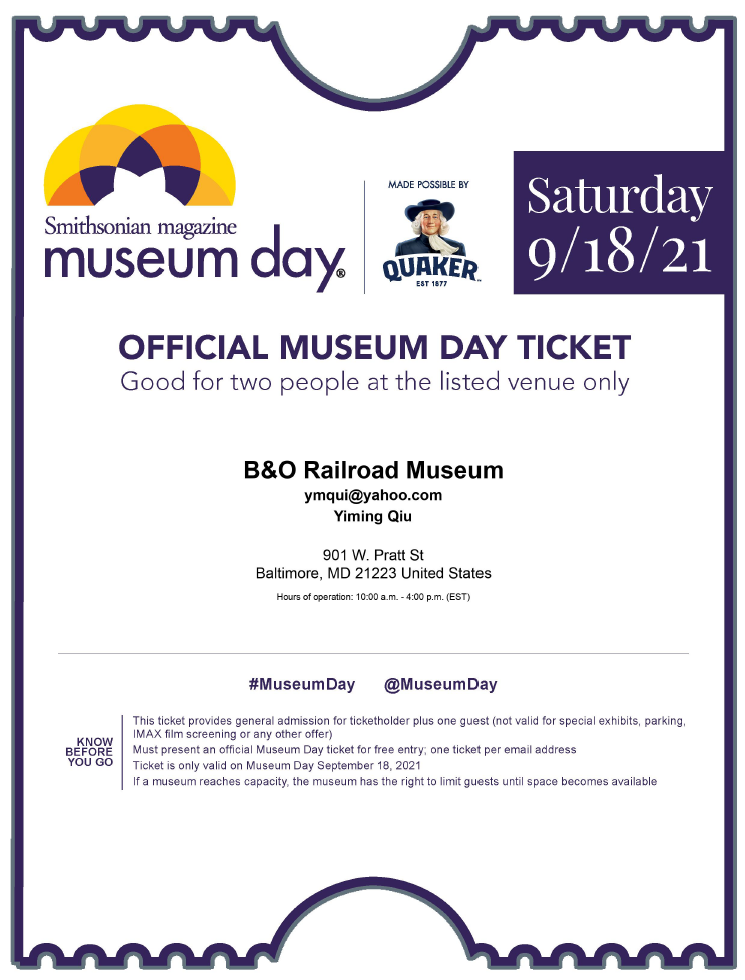
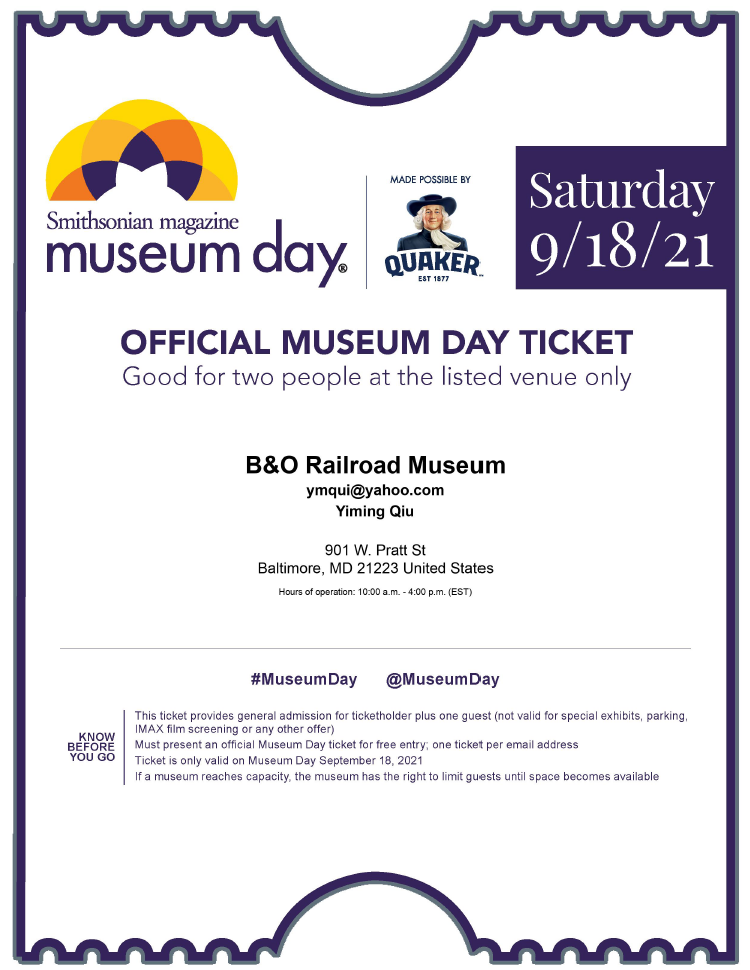
Add files via upload

diff --git a/coupon.html b/coupon.html
@@ -14,4 +14,8 @@
 <center>
 <img src="coupon.png" class="pic">
 </center>
+<br>
+<center>
+<img src="coupon_1.png" class="pic">
+</center>
 </html>
